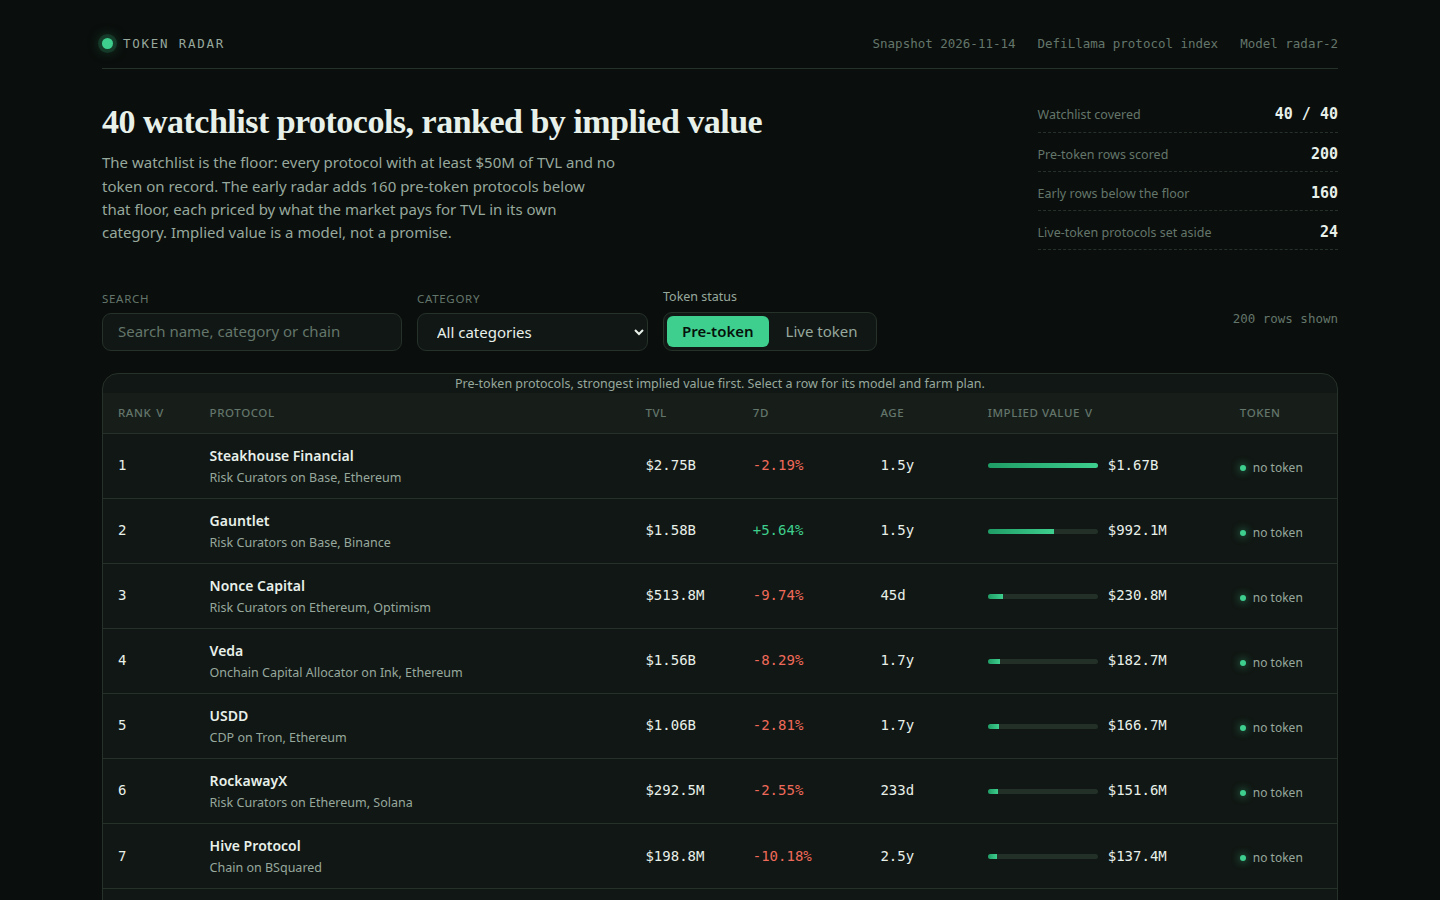
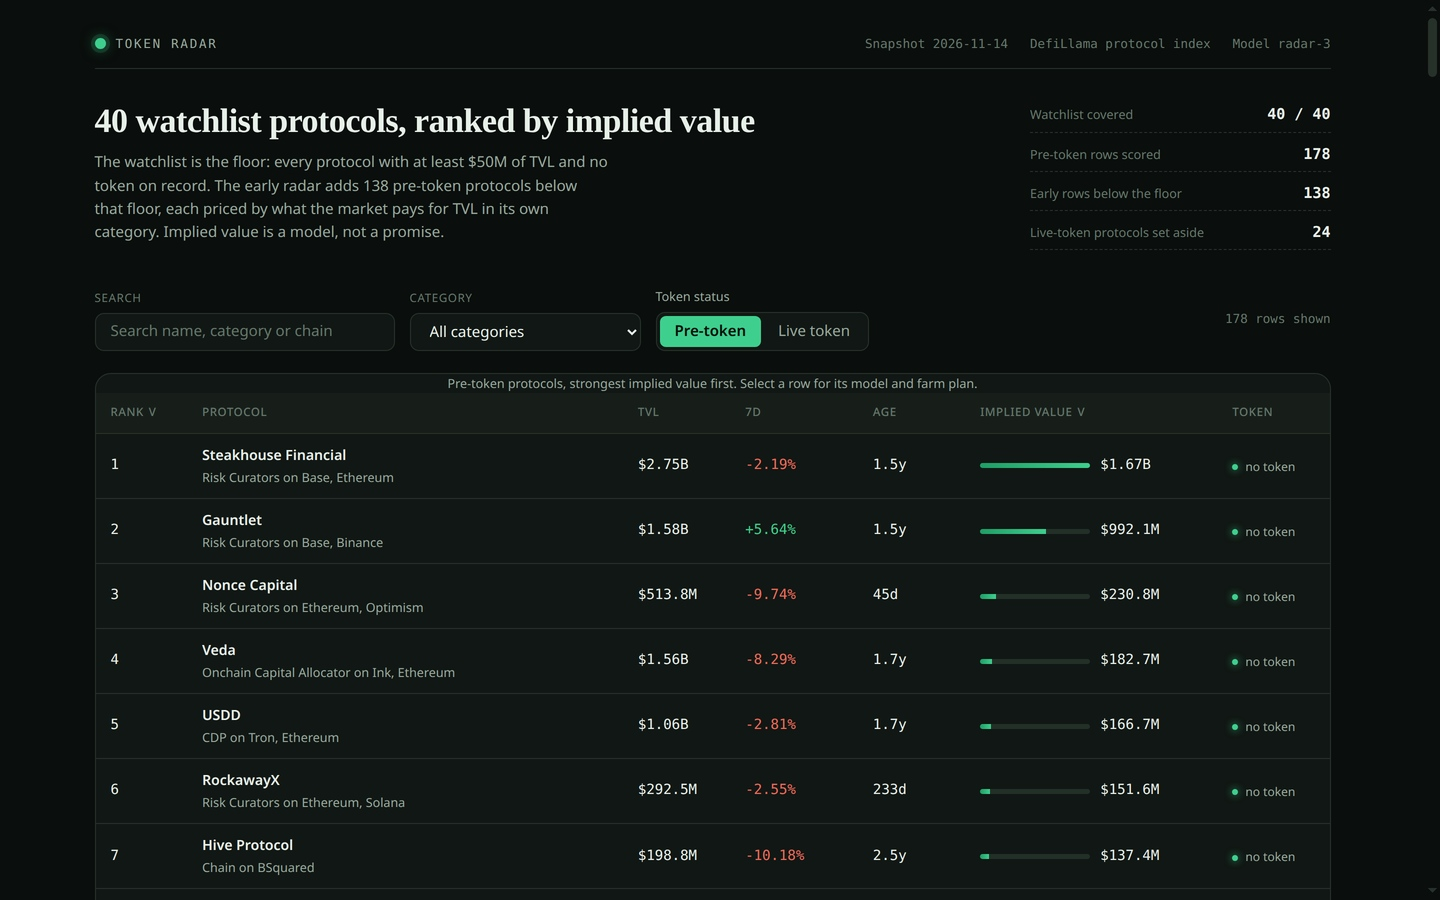
Radar v3: early rows pass the watchlist's own exclusion
The early radar picked the 160 highest-TVL pre-token protocols below the
floor with only a CEX/version-marker screen, so 39 of its 160 rows were
bridges, canonical bridges, liquid staking/restaking products and other
wrapped or staked products of tokens that already trade — the exact set
the snapshot's watchlist rule sets aside. isRankable now applies that
full exclusion (product categories, wrapped/staked/staking whole words,
version markers, exchange name prefixes), so the board holds all 138
eligible early protocols and no product of a token that trades: 178 rows
(40 watchlist + 138 early), top 10 unchanged. Model version radar-3;
dashboard model panel and README state the exclusion; screenshots
re-rendered from the new board (178 rows, Lending filter 14 rows).

Verified locally: program deterministic across two runs (~0.5s), all
seven gate rows pass under a local mirror of the scorer (dossier
1,009,712 bytes, byte-identical rebuild), and for all 178 rows the
dashboard detail view recomputes the board's implied value and renders
a farm plan character-identical to board.json.

diff --git a/lib/model.ts b/lib/model.ts
@@ -2,9 +2,12 @@
 //
 // The board covers every slug in the snapshot's watchlist (the floor, never a ceiling) and may add
 // pre-token protocols below the watchlist floor: the early rows the radar exists to find. A protocol is
-// pre-token when its index entry records no token (no market cap, no CoinGecko id, no symbol); the
-// snapshot's live-token protocols are kept apart and shown as the market's own values, never mixed into
-// the ranked board.
+// pre-token when its index entry records no token (no market cap, no CoinGecko id, no symbol); an early
+// row must also pass the watchlist's own exclusion — no bridge, canonical bridge, liquid staking or
+// restaking category, no wrapped/staked/staking whole word in its name, no version marker, no exchange's
+// name at its head — so the early radar never ranks a wrapped, staked or bridged product of a token that
+// already trades as if it were a launch still to come. The snapshot's live-token protocols are kept apart
+// and shown as the market's own values, never mixed into the ranked board.
 //
 // Implied value follows only from the snapshot's own figures:
 //
@@ -75,7 +78,7 @@ export const MODEL: ModelConstants = {
 };
 
 /** The model's version label: the dashboard names it and the rules quote it. */
-export const MODEL_VERSION = 'radar-2';
+export const MODEL_VERSION = 'radar-3';
 
 /** How many pre-token protocols below the watchlist floor the early radar carries, by TVL. */
 export const EARLY_ROWS = 160;
@@ -259,14 +262,44 @@ export function impliedValue(protocol: SnapshotProtocol, asOf: string, model: Mo
 /** DefiLlama's version-marker rule: a name ending in a release is a pool of another protocol. */
 const VERSIONED = /\s(V\d+(\.\d+)?|v\d+(\.\d+)?|\d+\.\d+)$/;
 
+/**
+ * The categories that make a protocol a product of a token that already trades, never a launch
+ * of its own: the same set the snapshot's watchlist rule sets aside. A bridge's or a liquid
+ * staking product's "token to come" is the wrapped or staked asset itself, priced already.
+ */
+const PRODUCT_CATEGORIES = new Set(['Bridge', 'Canonical Bridge', 'Liquid Staking', 'Liquid Restaking', 'Restaked BTC', 'CEX']);
+
+/** A whole word in a name that marks a wrapped or staked product of an asset that already trades. */
+const PRODUCT_WORD = /\b(wrapped|staked|staking)\b/i;
+
+/** The exchanges whose own products the watchlist rule sets aside: a name beginning with one is theirs. */
+const EXCHANGE_NAMES = ['Binance', 'Coinbase', 'Bybit', 'Kraken', 'Bitget', 'OKX', 'Bitfinex', 'Gemini'];
+
+/** Whether a name begins with an exchange's name, as the watchlist rule reads it. */
+function exchangeNamed(name: string): boolean {
+  return EXCHANGE_NAMES.some((e) => name === e || name.startsWith(`${e} `));
+}
+
 /** Whether a protocol records no token at all. */
 export function isPreToken(p: SnapshotProtocol): boolean {
   return p.mcap_usd === null && p.gecko_id === null && p.symbol === null;
 }
 
-/** Whether a protocol is one the board may rank: pre-token, not an exchange, not a versioned pool. */
+/**
+ * Whether a protocol is one the board may rank: pre-token, and not a wrapped, staked or bridged
+ * product of a token that already trades — the watchlist's own exclusion, applied to the early
+ * radar too, so an early row is a launch still to come and never a product of one that trades.
+ * (The watchlist itself is added to the board unconditionally: coverage is the gate's row, and
+ * every watchlist slug already passes this rule by the snapshot's construction.)
+ */
 export function isRankable(p: SnapshotProtocol): boolean {
-  return isPreToken(p) && p.category !== 'CEX' && !VERSIONED.test(p.name);
+  return (
+    isPreToken(p) &&
+    !PRODUCT_CATEGORIES.has(p.category ?? '') &&
+    !VERSIONED.test(p.name) &&
+    !PRODUCT_WORD.test(p.name) &&
+    !exchangeNamed(p.name)
+  );
 }
 
 /** The snapshot's protocol by slug. */
@@ -292,8 +325,9 @@ export function buildBoard(snapshot: Snapshot, model: ModelConstants = MODEL): B
     const p = index.get(slug);
     if (p !== undefined) chosen.set(slug, p);
   }
-  // The early radar: pre-token protocols below the watchlist floor, by TVL, capped. Never a replacement
-  // for a watchlist row: a chosen protocol stays chosen.
+  // The early radar: pre-token protocols below the watchlist floor that pass the watchlist's own
+  // exclusion (isRankable), by TVL, capped. Never a replacement for a watchlist row: a chosen
+  // protocol stays chosen.
   const early = snapshot.protocols
     .filter((p) => !chosen.has(p.slug) && isRankable(p) && p.tvl_usd < snapshot.floor_usd)
     .sort((a, b) => b.tvl_usd - a.tvl_usd || (a.slug < b.slug ? -1 : a.slug > b.slug ? 1 : 0))

diff --git a/dashboard/app.js b/dashboard/app.js
@@ -368,7 +368,7 @@
       ),
       h('p', { class: 'sub', text: 'The category multiple is the market pricing its own TVL: for each category, the median market-cap / TVL of the snapshot\'s tokenised protocols in that category, shrunk toward the global peer median of ' + DATA.multiples.global + ' by the peer count (weight ' + m.peer_shrinkage + ') and clamped to [' + m.multiple_floor + ', ' + m.multiple_cap + ']. A category with no tokenised peers takes the global median. Each row records the exact multiple it was scored with; open a row to see it.' }),
       multiplesTable(),
-      h('p', { class: 'sub', text: 'TVL and seven-day growth come from the snapshot. Age is the time since the protocol was first listed, the best record of how long it has run with no token; an unlisted age uses ' + m.unknown_age_days + ' days. The early radar is every pre-token protocol below the watchlist floor, by TVL, and the live-token protocols are set aside with their market caps shown.' })
+      h('p', { class: 'sub', text: 'TVL and seven-day growth come from the snapshot. Age is the time since the protocol was first listed, the best record of how long it has run with no token; an unlisted age uses ' + m.unknown_age_days + ' days. The early radar takes the pre-token protocols below the watchlist floor by TVL, under the watchlist\'s own exclusion: bridges, wrapped and staked products and exchange products are left out, because each is a claim on a token that already trades, not a launch still to come. The live-token protocols are set aside with their market caps shown.' })
     );
   }
 

diff --git a/README.md b/README.md
@@ -4,7 +4,7 @@
 [![rank](https://make.fun/badge/token-radar-01/chase-burns/token-radar/rank.svg)](https://make.fun/bounty/token-radar-01/leaderboard?utm_source=github&utm_medium=readme&utm_campaign=token-radar-01)
 [![reward](https://make.fun/badge/token-radar-01/chase-burns/token-radar/reward.svg)](https://make.fun/bounty/token-radar-01?utm_source=github&utm_medium=readme&utm_campaign=token-radar-01)
 
-Token Radar ranks 200 protocols that have not launched a token yet — including all 40 from the competition watchlist — by the market value their token would imply if it launched today. Instead of one flat guess, each protocol is priced with the market-cap-to-TVL multiple that already-launched protocols in its own category actually trade at (shrunk toward the global median when a category has few peers, then capped), adjusted for its 7-day TVL momentum and its maturity. Every row ships a concrete, step-by-step farming plan (starting with verifying the official site before depositing anything), and the offline dashboard lets you search, filter by category or chain, open a detail drawer that recomputes the implied value in the page so you can check the maths yourself, and read the category-multiples evidence table behind the model. Built by an AI agent for make.fun's token radar bounty.
+Token Radar ranks 178 protocols that have not launched a token yet — including all 40 from the competition watchlist — by the market value their token would imply if it launched today. The early rows below the watchlist floor pass the watchlist's own exclusion, so no bridge, wrapped or staked product of a token that already trades is ranked as if it were a launch still to come. Instead of one flat guess, each protocol is priced with the market-cap-to-TVL multiple that already-launched protocols in its own category actually trade at (shrunk toward the global median when a category has few peers, then capped), adjusted for its 7-day TVL momentum and its maturity. Every row ships a concrete, step-by-step farming plan (starting with verifying the official site before depositing anything), and the offline dashboard lets you search, filter by category or chain, open a detail drawer that recomputes the implied value in the page so you can check the maths yourself, and read the category-multiples evidence table behind the model. Built by an AI agent for make.fun's token radar bounty.
 
 ## Run it
 
